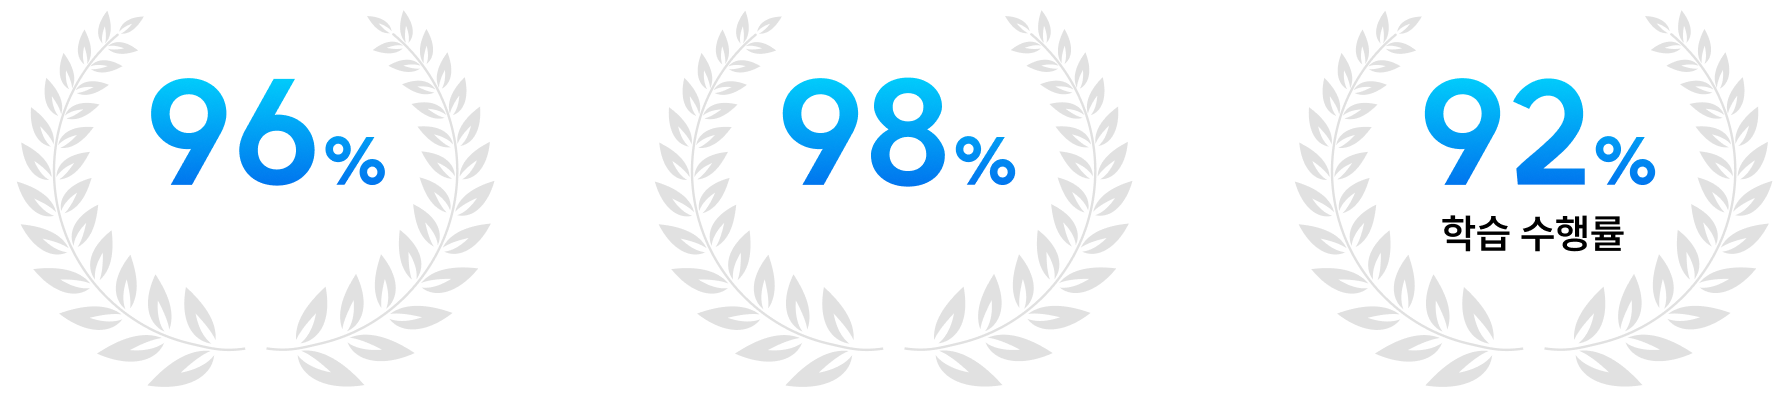
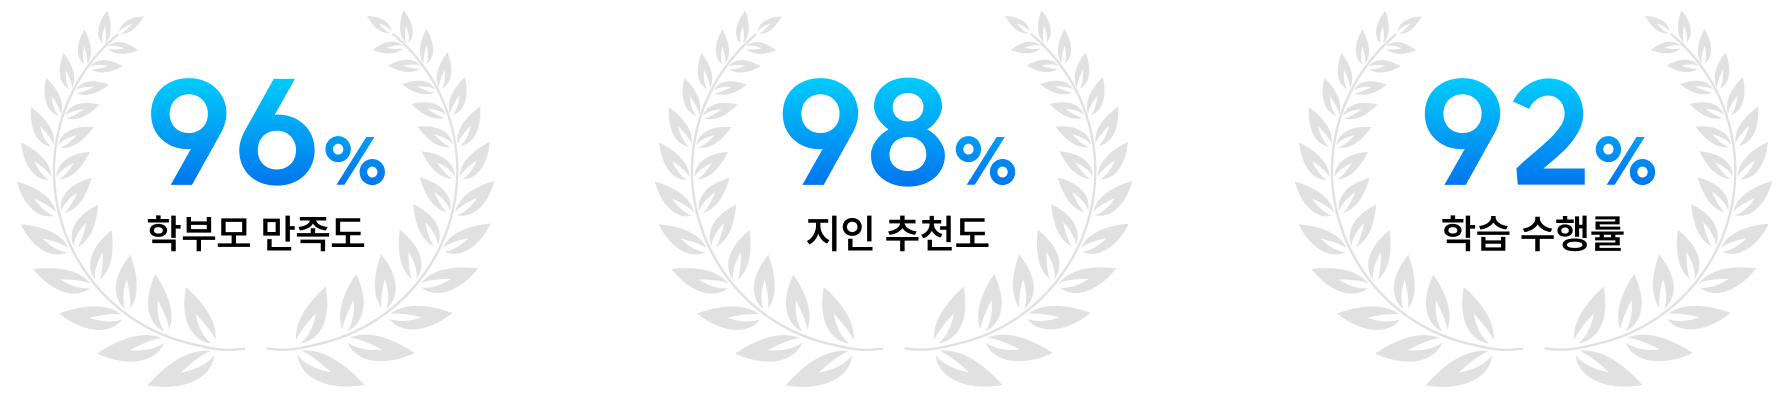
update 1218

Changed region(s): [[0.0615, 0.5387, 0.2152, 0.6284], [0.4304, 0.5387, 0.5534, 0.6284]]

diff --git a/page1.html b/page1.html
@@ -140,7 +140,7 @@
             <img class="obj pic1" src="./img/img_hero_pic1.svg" alt="obj" data-aos="zoom-in" data-aos-duration="500" data-aos-offset="300" data-aos-delay="200"  data-aos-easing="ease-in-out">
             <img class="obj pic2" src="./img/img_hero_pic2.svg" alt="obj" data-aos="zoom-in" data-aos-duration="500" data-aos-offset="0" data-aos-delay="500"  data-aos-easing="ease-in-out">
             <img class="obj pic3" src="./img/img_hero_pic3.svg" alt="obj" data-aos="zoom-in" data-aos-duration="500" data-aos-offset="500" data-aos-delay="500"  data-aos-easing="ease-in-out">
-            <img class="obj pic4" src="./img/img_hero_pic4.svg" alt="obj" data-aos="zoom-in" data-aos-duration="500" data-aos-offset="300" data-aos-delay="1000"  data-aos-easing="ease-in-out">
+            <img class="obj pic4" src="./img/img_hero_pic4.png" alt="obj" data-aos="zoom-in" data-aos-duration="500" data-aos-offset="300" data-aos-delay="1000"  data-aos-easing="ease-in-out">
         </div>
         <!-- <img class="d-mo bg" src="./img/bg_hero_mo.png" alt="herobg" data-aos="fade-up" data-aos-duration="500" data-aos-offset="300"> -->
         <div class="black d-pc">
@@ -448,9 +448,20 @@
                     TESOL 자격 강사는 다릅니다
                 </h5>
             </div>
-            <div class="imgWrap">
-                <div class="d-pc"><img src="./img/img_section06.png" srcset="./img/img_section06.png 2x" alt="table"></div>
-                <div class="d-mo"><img src="./img/img_section06_mo.png" srcset="./img/img_section06_mo.png 2x" alt="table"></div>
+            <div class="d-pc">
+                <div class="imgWrap">
+                    <img src="./img/img_section06.png" srcset="./img/img_section06.png 2x" alt="table">
+                </div>
+            </div>
+            <div class="d-mo">
+                <div class="slick2">
+                    <div class="imgWrap">
+                        <img src="./img/img_section06_mo.png" srcset="./img/img_section06_mo.png 2x" alt="table">
+                    </div>
+                    <div class="imgWrap">
+                        <img src="./img/img_section06_2_mo.png" srcset="./img/img_section06_2_mo.png 2x" alt="table">
+                    </div>
+                </div>
             </div>
             <div class="btnWrap">
                 <a class="btn-round btn-gra" href="#">무료 레벨 테스트 바로가기</a>
@@ -484,7 +495,7 @@
                     <h3>
                         단순 문법 공부를 넘어<br/>
                         <b>
-                            실제 원어민 처럼 말하고 이해하는 영어
+                            실제 원어민처럼 말하고 이해하는 영어
                         </b>
                     </h3>
                     <h5>
@@ -673,6 +684,15 @@
                     }
                 }
             ]
+        });
+
+        $('.section-06 .slick2').slick({
+            dots: true,
+            arrows: false,
+            infinite: true,
+            autoplay: true,
+            autoplaySpeed: 2000,
+            slidesToShow: 1,
         });
 
         $('.slickSec08').slick({

diff --git a/css/style.css b/css/style.css
@@ -753,6 +753,7 @@ p.p2 {
   margin: 48px auto 72px;
 }
 .section-03 .rolling {
+  transform: scale(0.8);
   width: 100%;
   margin: 0 auto;
   margin-top: -20px;
@@ -1005,6 +1006,7 @@ p.p2 {
   aspect-ratio: 1608/1105;
   margin-top: 80px;
   margin-bottom: 120px;
+  overflow: visible;
 }
 .section-06 .imgWrap img {
   position: absolute;
@@ -1012,6 +1014,15 @@ p.p2 {
   left: 50%;
   transform: translateX(-50%);
   width: 113%;
+}
+.section-06 .slick2 {
+  margin-left: -24px;
+  margin-right: -24px;
+  width: calc(100% + 48px);
+}
+.section-06 .slick2 .slick-list {
+  padding-top: 20%;
+  margin-top: -20%;
 }
 
 .section-07 {
@@ -2298,6 +2309,9 @@ footer.junior .info {
     margin-bottom: 24px;
     font-weight: 400;
   }
+  .paraTemple h3 {
+    font-size: 6.2vw;
+  }
   .paraTemple h5 {
     font-size: 3.611vw;
     margin-bottom: 24px;
@@ -2547,7 +2561,7 @@ footer.junior .info {
     bottom: -3%;
   }
   .section-03 {
-    padding: 72px 0 70px;
+    padding: 72px 0 40px;
   }
   .section-03 h3 {
     font-size: 6.667vw;
@@ -2750,7 +2764,7 @@ footer.junior .info {
     z-index: 1;
   }
   .section-08 .slickSec08 {
-    width: calc(100vw - 32px);
+    width: calc(100vw - 105px);
     margin-bottom: 70px;
     margin-bottom: 21.4%;
   }

diff --git a/css/style.scss b/css/style.scss
@@ -802,6 +802,7 @@ p.p2 {
 		margin: 48px auto 72px;
 	}
 	.rolling {
+		transform: scale(0.8);
 		width: 100%;
 		margin: 0 auto;
 		margin-top: -20px;
@@ -1090,12 +1091,22 @@ p.p2 {
 		aspect-ratio: 1608 / 1105;
 		margin-top: 80px;
 		margin-bottom: 120px;
+		overflow: visible;
 		img {
 			position: absolute;
 			bottom: 0;
 			left: 50%;
 			transform: translateX(-50%);
 			width: 113%;
+		}
+	}
+	.slick2 {
+		margin-left: -24px;
+		margin-right: -24px;
+		width: calc(100% + 48px);
+		.slick-list {
+			padding-top: 20%;
+			margin-top: -20%;
 		}
 	}
 }
@@ -2390,6 +2401,9 @@ footer {
 			margin-bottom: 24px;
 			font-weight: 400;
 		}
+		h3 {
+			font-size: 6.2vw;
+		}
 		h5 {
 			font-size: $fs13;
 			margin-bottom: 24px;
@@ -2670,7 +2684,7 @@ footer {
 		}
 	}
 	.section-03 {
-		padding: 72px 0 70px;
+		padding: 72px 0 40px;
 		h3 {
 			em {
 				font-size: $fs16;
@@ -2880,7 +2894,7 @@ footer {
 			z-index: 1;
 		}
 		.slickSec08 {
-			width: calc(100vw - 32px);
+			width: calc(100vw - 105px);
 			margin-bottom: 70px;
 			margin-bottom: 21.4%;
 			.slick-dots {

diff --git a/page12.html b/page12.html
@@ -146,10 +146,10 @@
 
     <div class="section-12" style="overflow: hidden;">
         <div class="inner">
-            <h1>
-                실전에서 바로 통하는 영어, 깊이 있게 배우다
-            </h1>
             <div class="d-pc">
+                <h1>
+                    실전에서 바로 통하는 영어, 깊이 있게 배우다
+                </h1>
                 <h5>
                     특화과정 교재는 단순한 영어 학습을 넘어, <br/>
                     특정 분야와 상황에 꼭 맞춘 실전형 심화 학습을 제공합니다. <br/>
@@ -161,6 +161,9 @@
                 </h5>
             </div>
             <div class="d-mo">
+                <h1>
+                    실전에서 바로 통하는 영어
+                </h1>
                 <h5>
                     <b>특정 분야와 상황에 꼭 맞춘 실전형 심화 학습</b>을 제공합니다.<br/>
                     비즈니스 미팅, 글로벌 인터뷰, 전문 프레젠테이션 등<br/>
